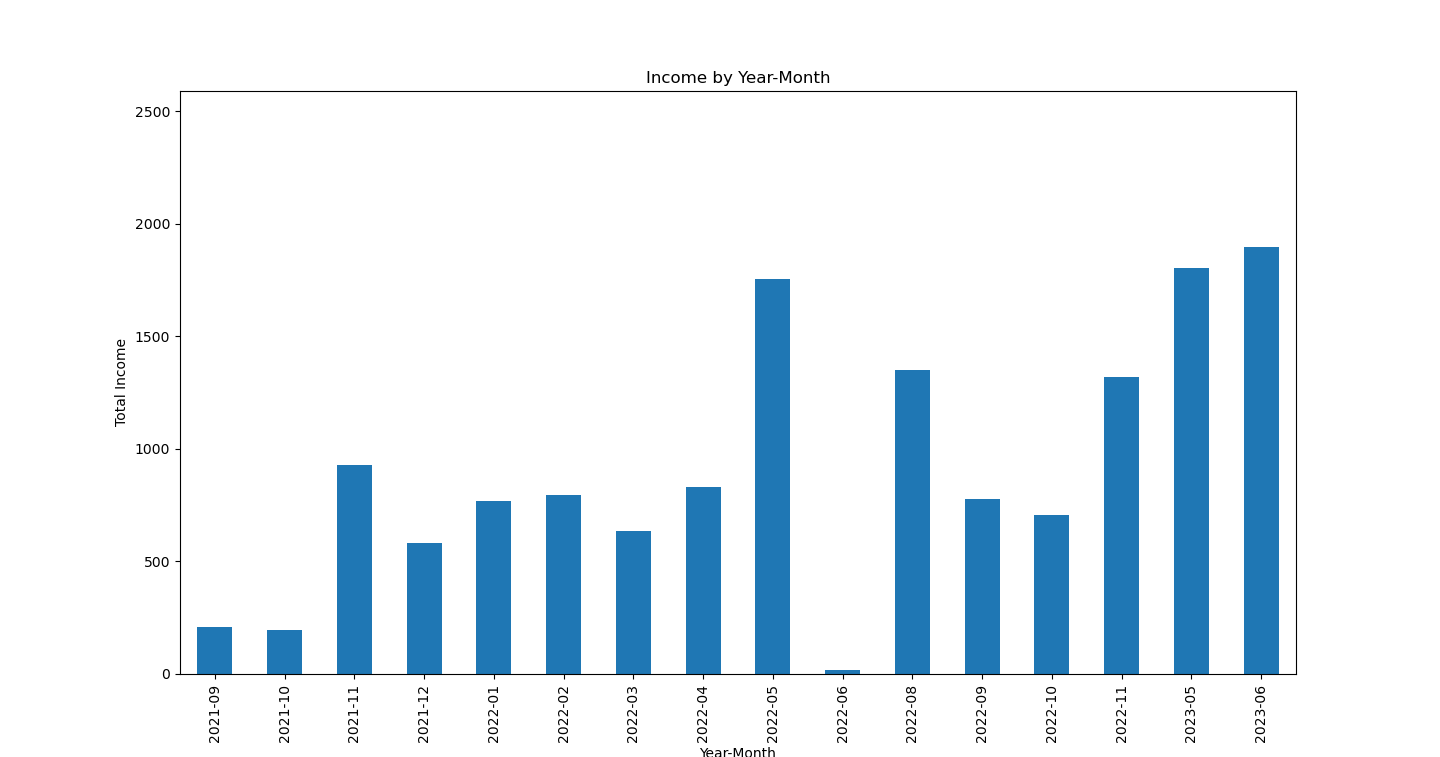
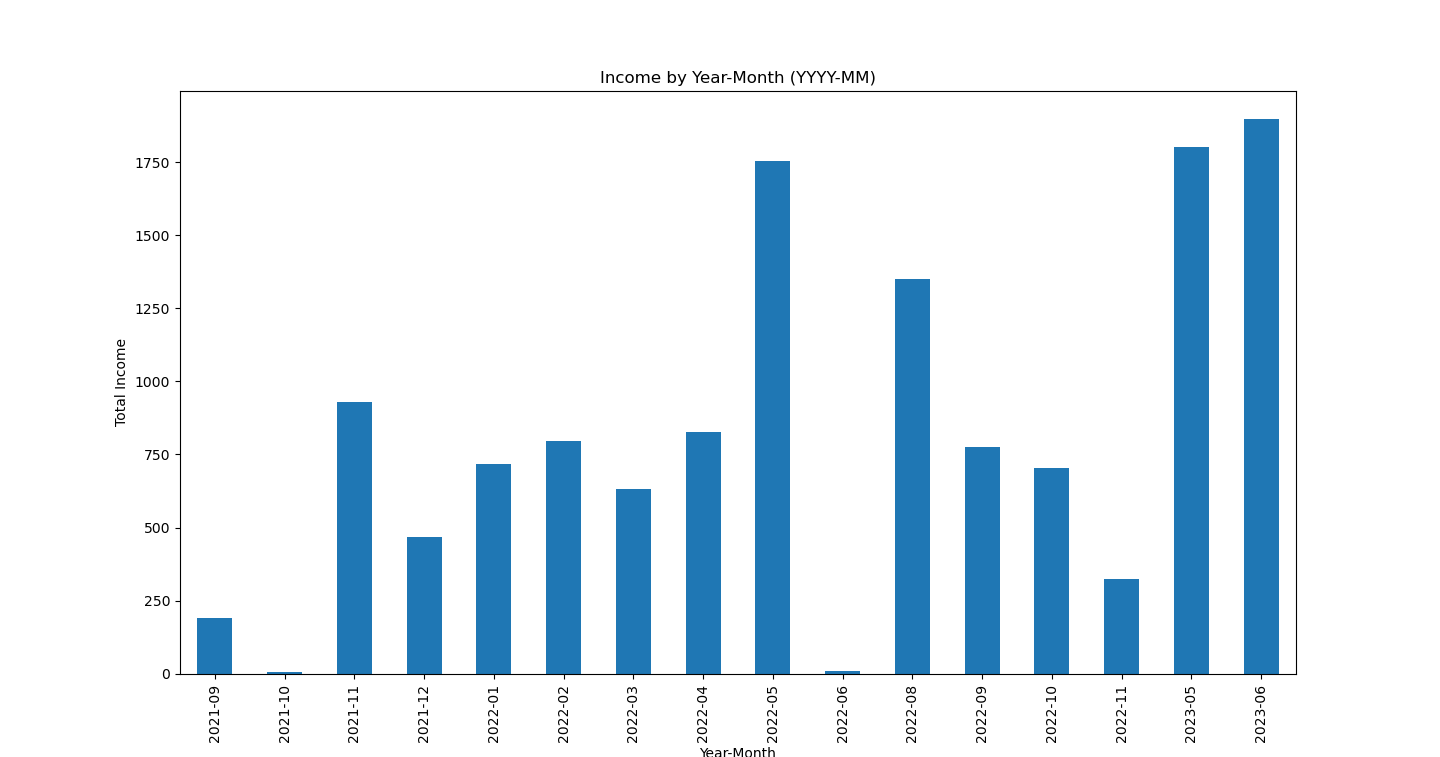
Updated net income function
Updated the plot_net_income function and fixed a bug so that now it displays my net income for ALL months, not just the months during which I made an income. This means that if I earned $0 in a month, but spent $1'000, it will show my net income as –$1'000 (whereas previously it would have just not drawn a bar for that month, because I didn't make any income that month).

diff --git a/python_scripts/analysis_functions.py b/python_scripts/analysis_functions.py
@@ -77,18 +77,28 @@ def plot_income_and_expenses(income_grouped, expenses_grouped):
 ##########################################################
 
 def plot_net_income(income_grouped, expenses_grouped):
-    '''Plots net income by year-month on bar chart.'''
 
-    # Calculate net income (income minus expenses)
-    net_income_grouped = income_grouped - expenses_grouped
+    '''Plots net income by year-month on a bar chart.'''
+
+    # Get a unique set of all year-month values from both income and expenses
+    all_year_month = sorted(set(income_grouped.index) | set(expenses_grouped.index))
+
+    # Calculate net income (income minus expenses) for all year-month values
+    net_income_grouped = income_grouped.reindex(all_year_month, fill_value=0) - expenses_grouped.reindex(all_year_month, fill_value=0)
 
     # Create a bar graph for net income
-    net_income_grouped.plot(kind='bar')
+    x_values = net_income_grouped.index.astype(str)  # Convert the index to strings
+    y_values = net_income_grouped.values
+
+    plt.bar(x_values, y_values)
 
     # Set the labels and title
     plt.xlabel('Year-Month')
     plt.ylabel('Net Income')
     plt.title('Net Income by Year-Month')
+
+    # Rotate the x-axis labels by 90 degrees
+    plt.xticks(rotation=90)
 
     # Display the plot
     plt.show()
@@ -167,25 +177,25 @@ def plot_categorized_expenses(expenses_df):
     #            Stacked bar plot              #
     ############################################
 
-    # # Convert the 'Date' column to datetime
-    # expenses_df['Date'] = pd.to_datetime(expenses_df['Date'])
+    # Convert the 'Date' column to datetime
+    expenses_df['Date'] = pd.to_datetime(expenses_df['Date'])
 
-    # # Extract the year and month from the 'Date' column
-    # expenses_df['YearMonth'] = expenses_df['Date'].dt.to_period('M')
+    # Extract the year and month from the 'Date' column
+    expenses_df['YearMonth'] = expenses_df['Date'].dt.to_period('M')
 
-    # # Create a pivot table to get the total expenses in each category for each year-month
-    # pivot_table = expenses_df.pivot_table(index='YearMonth', columns='Category', values='Amount', aggfunc='sum', fill_value=0)
+    # Create a pivot table to get the total expenses in each category for each year-month
+    pivot_table = expenses_df.pivot_table(index='YearMonth', columns='Category', values='Amount', aggfunc='sum', fill_value=0)
 
-    # # Plot the pivot table as a bar plot
-    # pivot_table.plot(kind='bar', stacked=True, figsize=(10, 6))
+    # Plot the pivot table as a bar plot
+    pivot_table.plot(kind='bar', stacked=True, figsize=(10, 6))
 
-    # # Set the labels and title
-    # plt.xlabel('Year-Month')
-    # plt.ylabel('Total Expenses')
-    # plt.title('Categorized Expenses by Year-Month')
+    # Set the labels and title
+    plt.xlabel('Year-Month')
+    plt.ylabel('Total Expenses')
+    plt.title('Categorized Expenses by Year-Month')
 
-    # # Display the plot
-    # plt.show()
+    # Display the plot
+    plt.show()
 
     
     ############################################

diff --git a/python_scripts/analyze_finances.py b/python_scripts/analyze_finances.py
@@ -75,14 +75,14 @@ income_grouped = af.group_data(income_df)
 #         Plot net income by year-month (yyyy-mm)        #
 ##########################################################
 
-# af.plot_net_income(income_grouped, expenses_grouped)
+af.plot_net_income(income_grouped, expenses_grouped)
 
 
 ##########################################################
 #          Plot all expenses in descending order         #
 ##########################################################
 
-af.plot_all_expenses(expenses_df)
+# af.plot_all_expenses(expenses_df)
 
 
 #################################################################

diff --git a/python_scripts/tempCodeRunnerFile.py b/python_scripts/tempCodeRunnerFile.py
@@ -1,0 +1,6 @@
+(
+f"""
+Total income: {total_income}
+Total expenses: {total_expenses}
+Total net income: {total_net_income}
+""")
